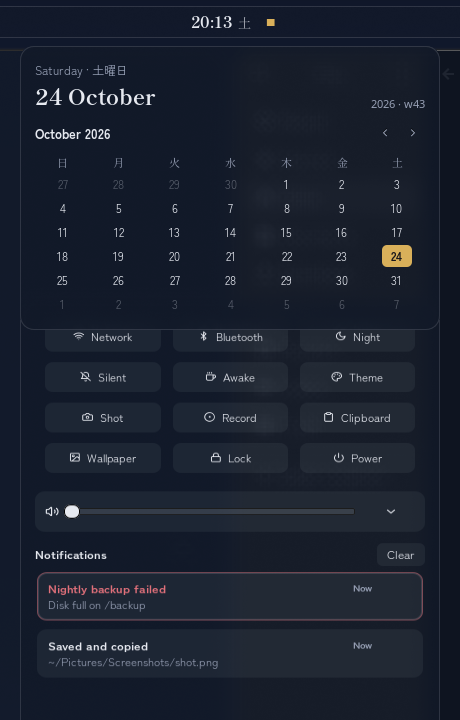
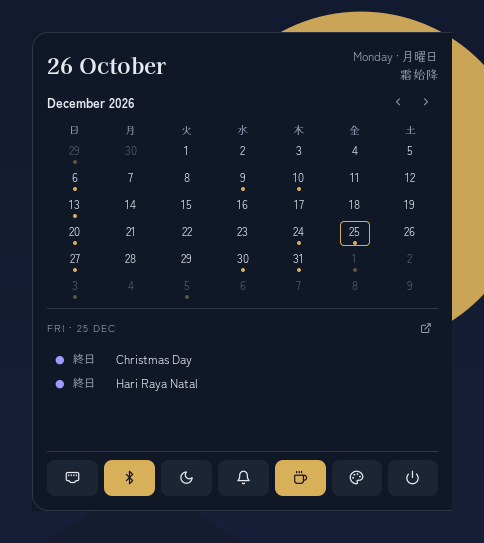
Release 0.2.0: changelog and fresh screenshots
CHANGELOG covers 0.1.5 to 0.2.0. README screenshots: Koyomi (calendar,
agenda, quick toggles) and the Theme manager re-rendered, plus the new
wallpaper with tonight's moon. The desktop shot stays: a full desktop
capture would carry private windows.

diff --git a/CHANGELOG.md b/CHANGELOG.md
@@ -1,5 +1,39 @@
 # Changelog
 
+## 0.2.0 — 2026-10-26
+
+The zen release: a design pass argued out between three design reviews, a calmer bar, the Koyomi
+panel as one container, music on the bar, focus sessions, and the palette reaching the apps you
+live in.
+
+- **Koyomi** is one container under the clock: the calendar (click a day for its events and due
+  tasks from Evolution Data Server: Google calendars, holidays, Google Tasks), today's micro-season
+  (七十二候) by the date, quick toggles that show their state, and the notifications beside it.
+  Clicks reach it again (swaync no longer grabs the keyboard exclusively).
+- **Notifications** stack per app (swaync 0.10+, see README for 24.04), clicking one takes you to
+  its window and workspace, bot channels can be kept out of the panel (swaync-local.json), and a
+  small synthesised bell (鈴) rings for critical ones.
+- **Bar**: a bell for notifications; now playing as smooth CSS bars tinted with the cover's colour
+  plus the title; the Media popover (cover on its own colour wash, seek bar) as glass; cpu · mem
+  only from 70%.
+- **Zazen** (Super+Z): 25 minutes of focus with an ensō counting down.
+- **Look**: Kaisei Opti as the display font, one type scale and one radius scale, a brush-stroke
+  ensō on the lock screen, ink-wash ridges and tonight's moon on the wallpaper, an optional
+  seasonal accent (紅梅 / 青竹 / 紅葉 / 白群), tabbed windows (Super+T) as paper tabs.
+- **App themes** from the palette: VS Code, Spotify (spicetify), Chrome.
+- **Shortcuts sheet** (Super+/) aligned, nothing truncated, follows Hyprland reloads; screenshot
+  keys for keyboards without PrtSc (Super+Shift+P / Super+Ctrl+P).
+- Opt-in terminal greeting (`shoji greet`).
+
+## 0.1.5 – 0.1.12 — 2026-10-25
+
+- Terminal contrast on light palettes; Claude Code `auto` theme.
+- Clickable workspaces under Lua Hyprland (shoji-ws), smoother toasts and OSD.
+- Super+/ shortcuts sheet; app keys (Super+K Slack, B Chrome, D Discord, …).
+- hypr-term: new ghostty windows in ~20 ms instead of ~1 s.
+- GTK3 apps (Thunar first) follow the palette; `shoji apply` restarts Thunar in place.
+- Launcher search no longer dies after the first open.
+
 ## 0.1.4 — 2026-10-24
 
 - Launcher: Enter focuses the app's window when it is already open (Shift+Enter opens a new one).

diff --git a/README.md b/README.md
@@ -42,7 +42,9 @@ folder icons and the wallpaper.
 
 | Theme manager | Koyomi | Ensō OSD |
 |---|---|---|
-| ![Theme manager with six palettes](docs/screenshots/theme-manager.png) | ![Calendar card above quick settings and notifications](docs/screenshots/koyomi.png) | ![Volume ensō in the top right](docs/screenshots/osd.png) |
+| ![Theme manager with six palettes and the seasonal accent](docs/screenshots/theme-manager.png) | ![Koyomi: calendar with a day's agenda and the quick toggles; notifications sit to its right](docs/screenshots/koyomi.png) | ![Volume ensō in the top right](docs/screenshots/osd.png) |
+
+![Wallpaper: ink-wash ridges under tonight's moon (dark palettes; the sun on light ones)](docs/screenshots/wallpaper.png)
 
 ![Lock screen: ensō around the clock, date in kanji](docs/screenshots/lock.jpg)
 
